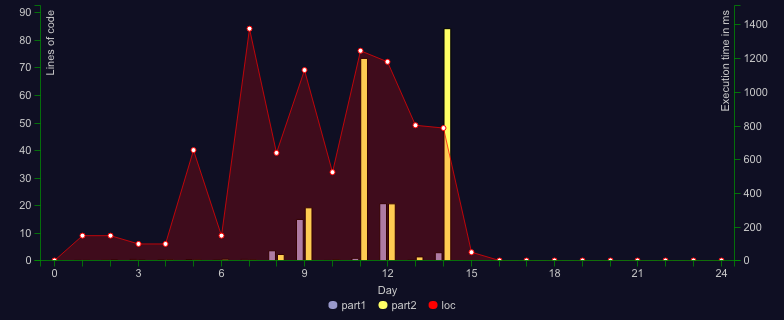
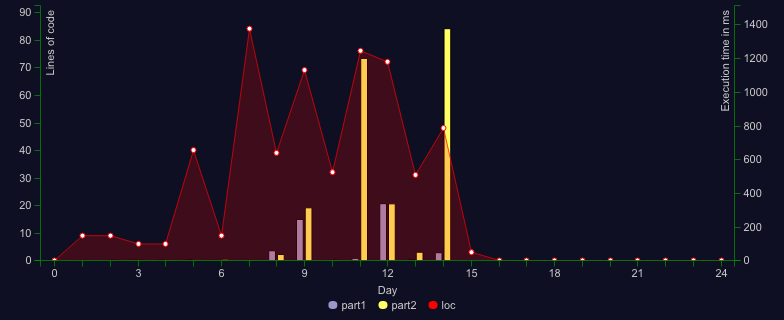
day 13: better impl

Changed region(s): [[0.4898, 0.2188, 0.5816, 0.5625], [0.5204, 0.7812, 0.551, 0.8125]]

diff --git a/src/day13/index.ts b/src/day13/index.ts
@@ -1,61 +1,44 @@
 import run from "aocrunner"
-import { head, sort, split, sum } from "ramda"
-import { isArray, isNumber } from "ramda-adjunct"
+import { chain, concat, equals, identity, pipe, product, split, sum, zip } from "ramda"
+import { isNumber, mapIndexed } from "ramda-adjunct"
 
-type Val = number | Vals
-type Vals = Val[]
-type Group = {
-  first: Vals
-  second: Vals
+const parseInput = pipe(split(/\n\s*\n/), (pairs) =>
+  pairs.map((pair) => pair.split("\n").map((x) => JSON.parse(x.trim()))),
+)
+
+type Packet = number | Packet[]
+
+const compare = (left: Packet, right: Packet): number => {
+  if (isNumber(left) && isNumber(right)) return Math.sign(right - left)
+  if (isNumber(left)) {
+    left = [left]
+  }
+  if (isNumber(right)) {
+    right = [right]
+  }
+
+  for (const c of zip(left, right).map(([lxs, rxs]) => compare(lxs, rxs))) {
+    if (c !== 0) return c
+  }
+
+  return Math.sign(right.length - left.length)
 }
 
-type EvalResult = "ordered" | "unordered" | "unsure"
+const part1 = pipe(
+  parseInput,
+  mapIndexed(([left, right], i) => (compare(left, right) >= 0 ? i + 1 : 0)),
+  sum,
+)
 
-const checkOrder = ([left, right]: [Val, Val]): EvalResult => {
-  if (isNumber(left) && isNumber(right)) {
-    return left === right ? "unsure" : left < right ? "ordered" : "unordered"
-  }
-  if (isArray(left) && isArray(right)) {
-    if (left.length === 0 && right.length === 0) {
-      return "unsure"
-    }
-    if (left.length === 0 || right.length === 0) {
-      return left.length === 0 ? "ordered" : "unordered"
-    }
-    const headRes = checkOrder([head(left)!, head(right)!])
-    return headRes === "unsure" ? checkOrder([left.slice(1), right.slice(1)]) : headRes
-  }
-  if (isNumber(left) && isArray(right)) {
-    return checkOrder([[left], right])
-  }
-  if (isArray(left) && isNumber(right)) {
-    return checkOrder([left, [right]])
-  }
-  return "unordered"
-}
-
-async function part1(input: string): Promise<number> {
-  const groups = split(/\n\s*\n/, input).map((group) => {
-    const [first, second] = group.split("\n").map((x) => JSON.parse(x.trim()))
-    return { first, second } as Group
-  })
-
-  return sum(
-    groups.map((group, idx) =>
-      checkOrder([group.first, group.second]) === "ordered" ? idx + 1 : 0,
-    ),
-  )
-}
-
-async function part2(input: string): Promise<number> {
-  const targets = [[[2]], [[6]]]
-  const groups: Vals[] = split(/\n\s*\n/, input)
-    .flatMap((group) => group.split("\n").map((x) => JSON.parse(x.trim())))
-    .concat(targets)
-  const sorted = sort((a, b) => (checkOrder([a, b]) === "ordered" ? -1 : 1), groups)
-  const indices = targets.map((target) => sorted.indexOf(target) + 1)
-  return indices[0] * indices[1]
-}
+const dividers: Packet[] = [[[2]], [[6]]]
+const part2 = pipe(
+  parseInput,
+  chain(identity),
+  concat(dividers),
+  (packets: Packet[]) => packets.sort(compare).reverse(),
+  mapIndexed((packet, i) => (dividers.some((divider) => equals(packet, divider)) ? i + 1 : 1)),
+  product,
+)
 
 run({
   part1: {
@@ -93,13 +76,37 @@ run({
   },
   part2: {
     tests: [
-      // {
-      //   input: ``,
-      //   expected: "",
-      // },
+      {
+        input: `
+          [1,1,3,1,1]
+          [1,1,5,1,1]
+
+          [[1],[2,3,4]]
+          [[1],4]
+
+          [9]
+          [[8,7,6]]
+
+          [[4,4],4,4]
+          [[4,4],4,4,4]
+
+          [7,7,7,7]
+          [7,7,7]
+
+          []
+          [3]
+
+          [[[]]]
+          [[]]
+
+          [1,[2,[3,[4,[5,6,7]]]],8,9]
+          [1,[2,[3,[4,[5,6,0]]]],8,9]
+        `,
+        expected: 140,
+      },
     ],
     solution: part2,
   },
   trimTestInputs: true,
-  onlyTests: false,
+  onlyTests: true,
 })

diff --git a/src/day14/index.ts b/src/day14/index.ts
@@ -27,6 +27,8 @@ const generateMap = (rows: string[][]) => {
     )
 }
 
+const parseInput = pipe(splitLines, map(split(" -> ")), generateMap)
+
 const simulateSand = curryRight(
   ({ blocked, maxY }: ReturnType<typeof generateMap>, hasFloor: boolean) => {
     const origin = [500, 0]
@@ -53,8 +55,6 @@ const simulateSand = curryRight(
     return blocked.size - size
   },
 )
-
-const parseInput = pipe(splitLines, map(split(" -> ")), generateMap)
 
 const part1 = pipe(parseInput, simulateSand(false))
 
